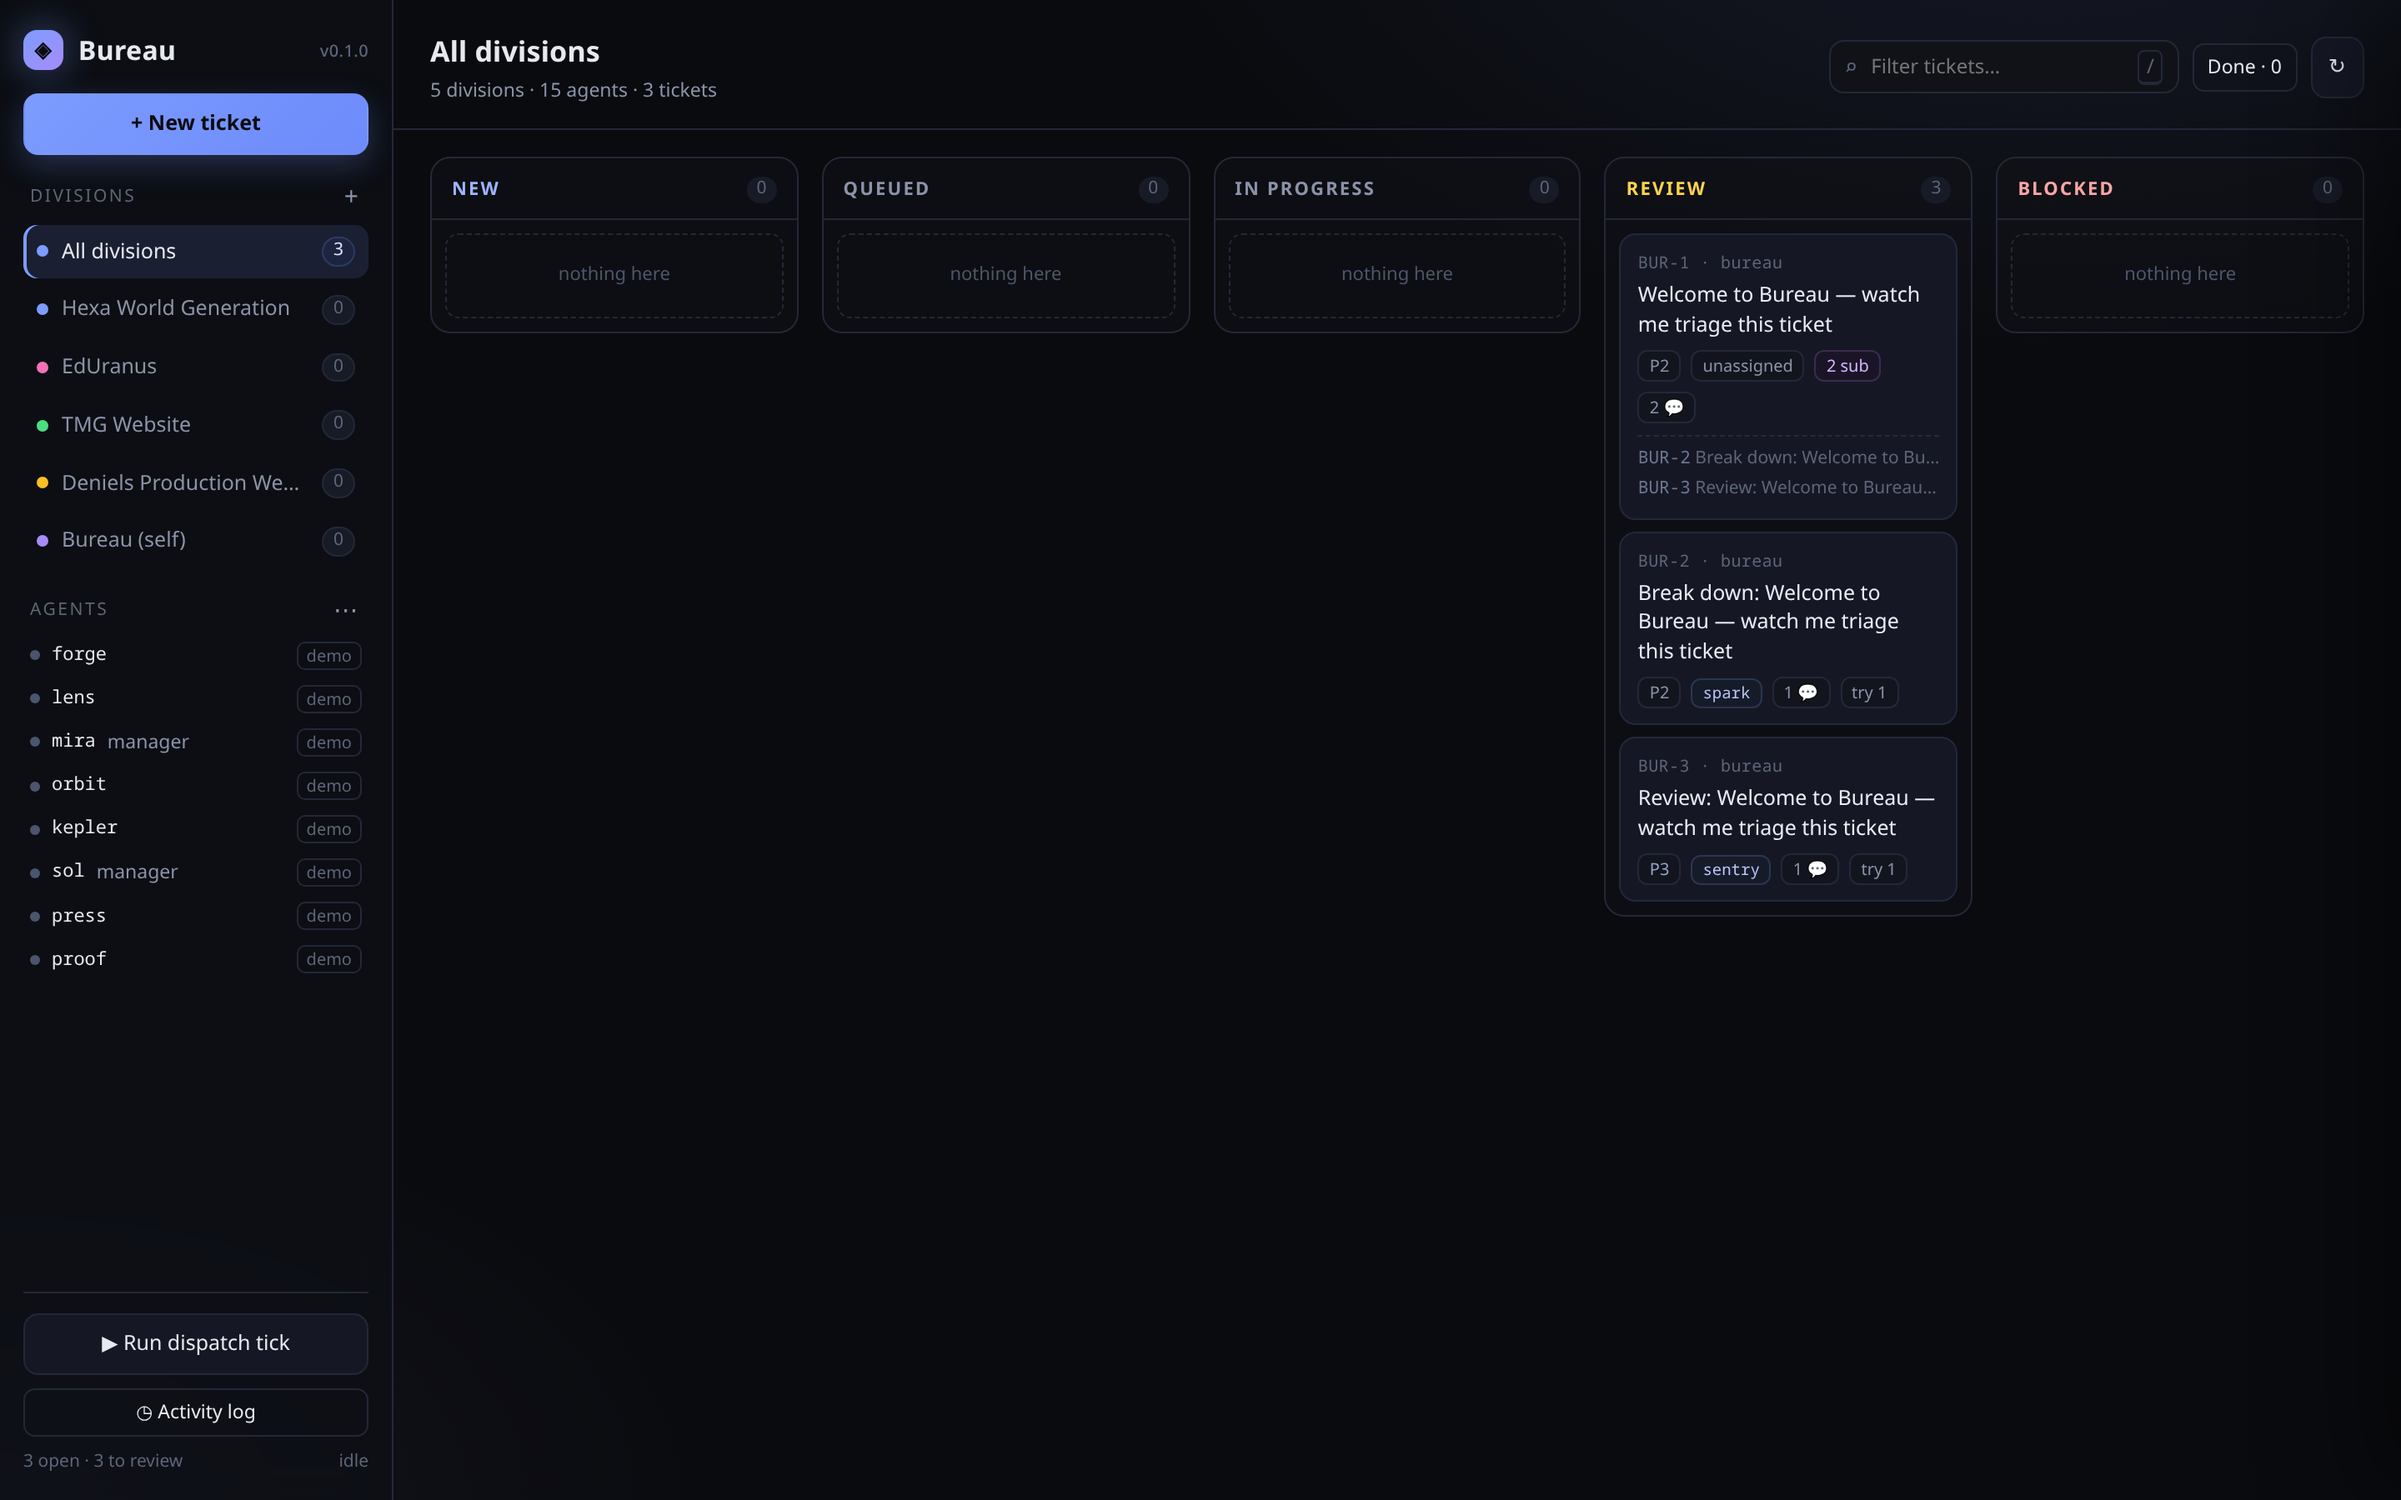
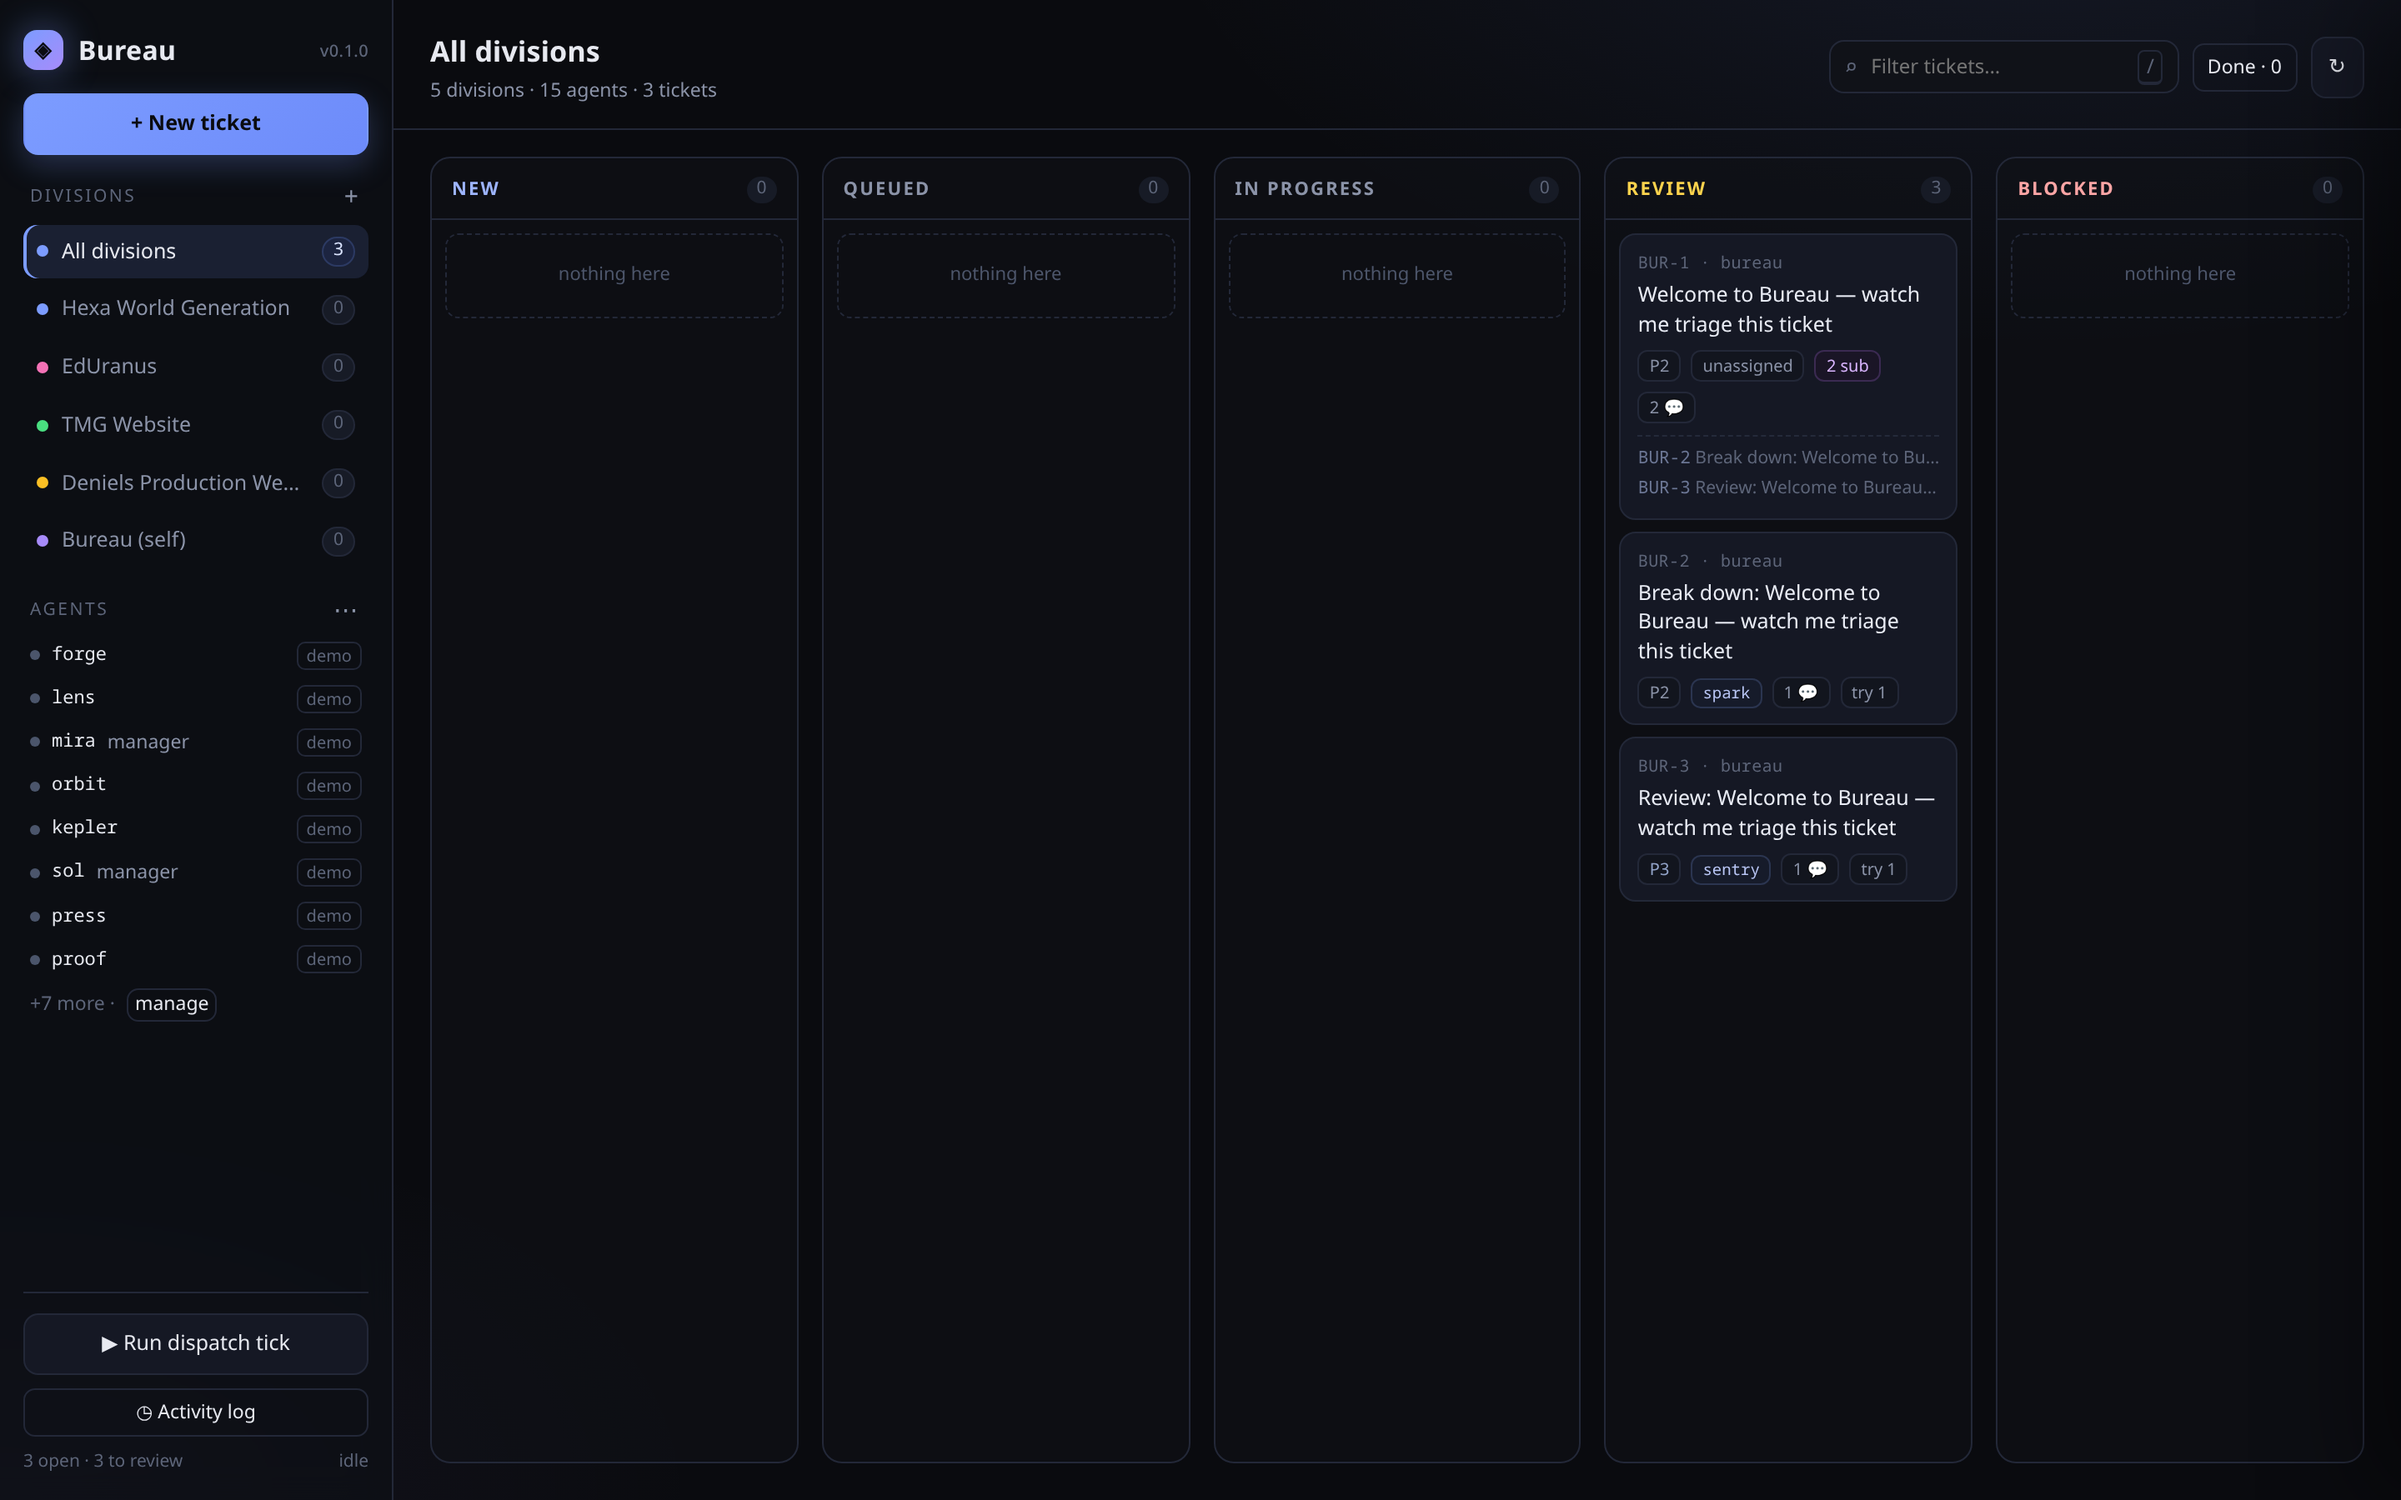
docs: screenshots, service unit, smoke test; ui: fit columns, hide done, inline code

Changed region(s): [[0.0625, 0.6533, 0.0938, 0.6844]]

diff --git a/assets/index.html b/assets/index.html
@@ -167,6 +167,7 @@
   }
   .meta-grid select:focus{border-color:#3a4a72}
   .body-txt{white-space:pre-wrap;font-size:12.5px;color:#c9cfdd;background:#12151d;border:1px solid var(--line);border-radius:10px;padding:11px 12px;max-height:280px;overflow:auto}
+  code{font-family:ui-monospace,SFMono-Regular,Menlo,monospace;font-size:.92em;background:#1b2130;border:1px solid #2a3246;border-radius:4px;padding:0 4px;color:#c7d4ff}
   .sec{font-size:10.5px;letter-spacing:.11em;text-transform:uppercase;color:var(--dim);margin:2px 0 -6px}
   .result{border-left:2px solid var(--acc);background:#131a2a;padding:10px 12px;border-radius:0 8px 8px 0;font-size:12px;white-space:pre-wrap;color:#dbe3ff;max-height:260px;overflow:auto}
   .kids{display:flex;flex-direction:column;gap:5px}
@@ -280,6 +281,8 @@
 "use strict";
 const $ = (s) => document.querySelector(s);
 const esc = (s) => String(s ?? "").replace(/[&<>"']/g, c => ({"&":"&amp;","<":"&lt;",">":"&gt;",'"':"&quot;","'":"&#39;"}[c]));
+// escaped text + inline `code` spans, for bodies/agent output
+const rich = (s) => esc(s).replace(/`([^`\n]+)`/g, "<code>$1</code>");
 const ago = (iso) => {
   if (!iso) return "";
   const t = Date.parse(iso); if (isNaN(t)) return iso;
@@ -462,7 +465,7 @@ function renderDrawer() {
     </div>`).join("");
   const comments = d.comments.map(c => `
     <div class="cm"><div class="h"><span class="who">${esc(c.author)}</span><span>${ago(c.created_at)}</span></div>
-    <div class="b">${esc(c.body)}</div></div>`).join("");
+    <div class="b">${rich(c.body)}</div></div>`).join("");
 
   const actions = [
     t.status !== "done" ? `<button class="btn small" data-act="done">✓ Approve / done</button>` : `<button class="btn small" data-act="review">↺ Reopen</button>`,
@@ -483,8 +486,8 @@ function renderDrawer() {
         ${agents.map(a => `<option value="${esc(a.slug)}" ${a.slug===t.assignee_slug?"selected":""}>${esc(a.slug)} (${esc(a.role)})</option>`).join("")}
       </select>
     </div>
-    ${t.body ? `<div class="sec">Description</div><div class="body-txt">${esc(t.body)}</div>` : ""}
-    ${t.result ? `<div class="sec">Result</div><div class="result">${esc(t.result)}</div>` : ""}
+    ${t.body ? `<div class="sec">Description</div><div class="body-txt">${rich(t.body)}</div>` : ""}
+    ${t.result ? `<div class="sec">Result</div><div class="result">${rich(t.result)}</div>` : ""}
     ${kids ? `<div class="sec">Sub-tickets (${t.children.length})</div><div class="kids">${kids}</div>` : ""}
     <div class="sec">Timeline</div>
     <div class="timeline">${comments || `<div class="empty">no comments yet</div>`}</div>
